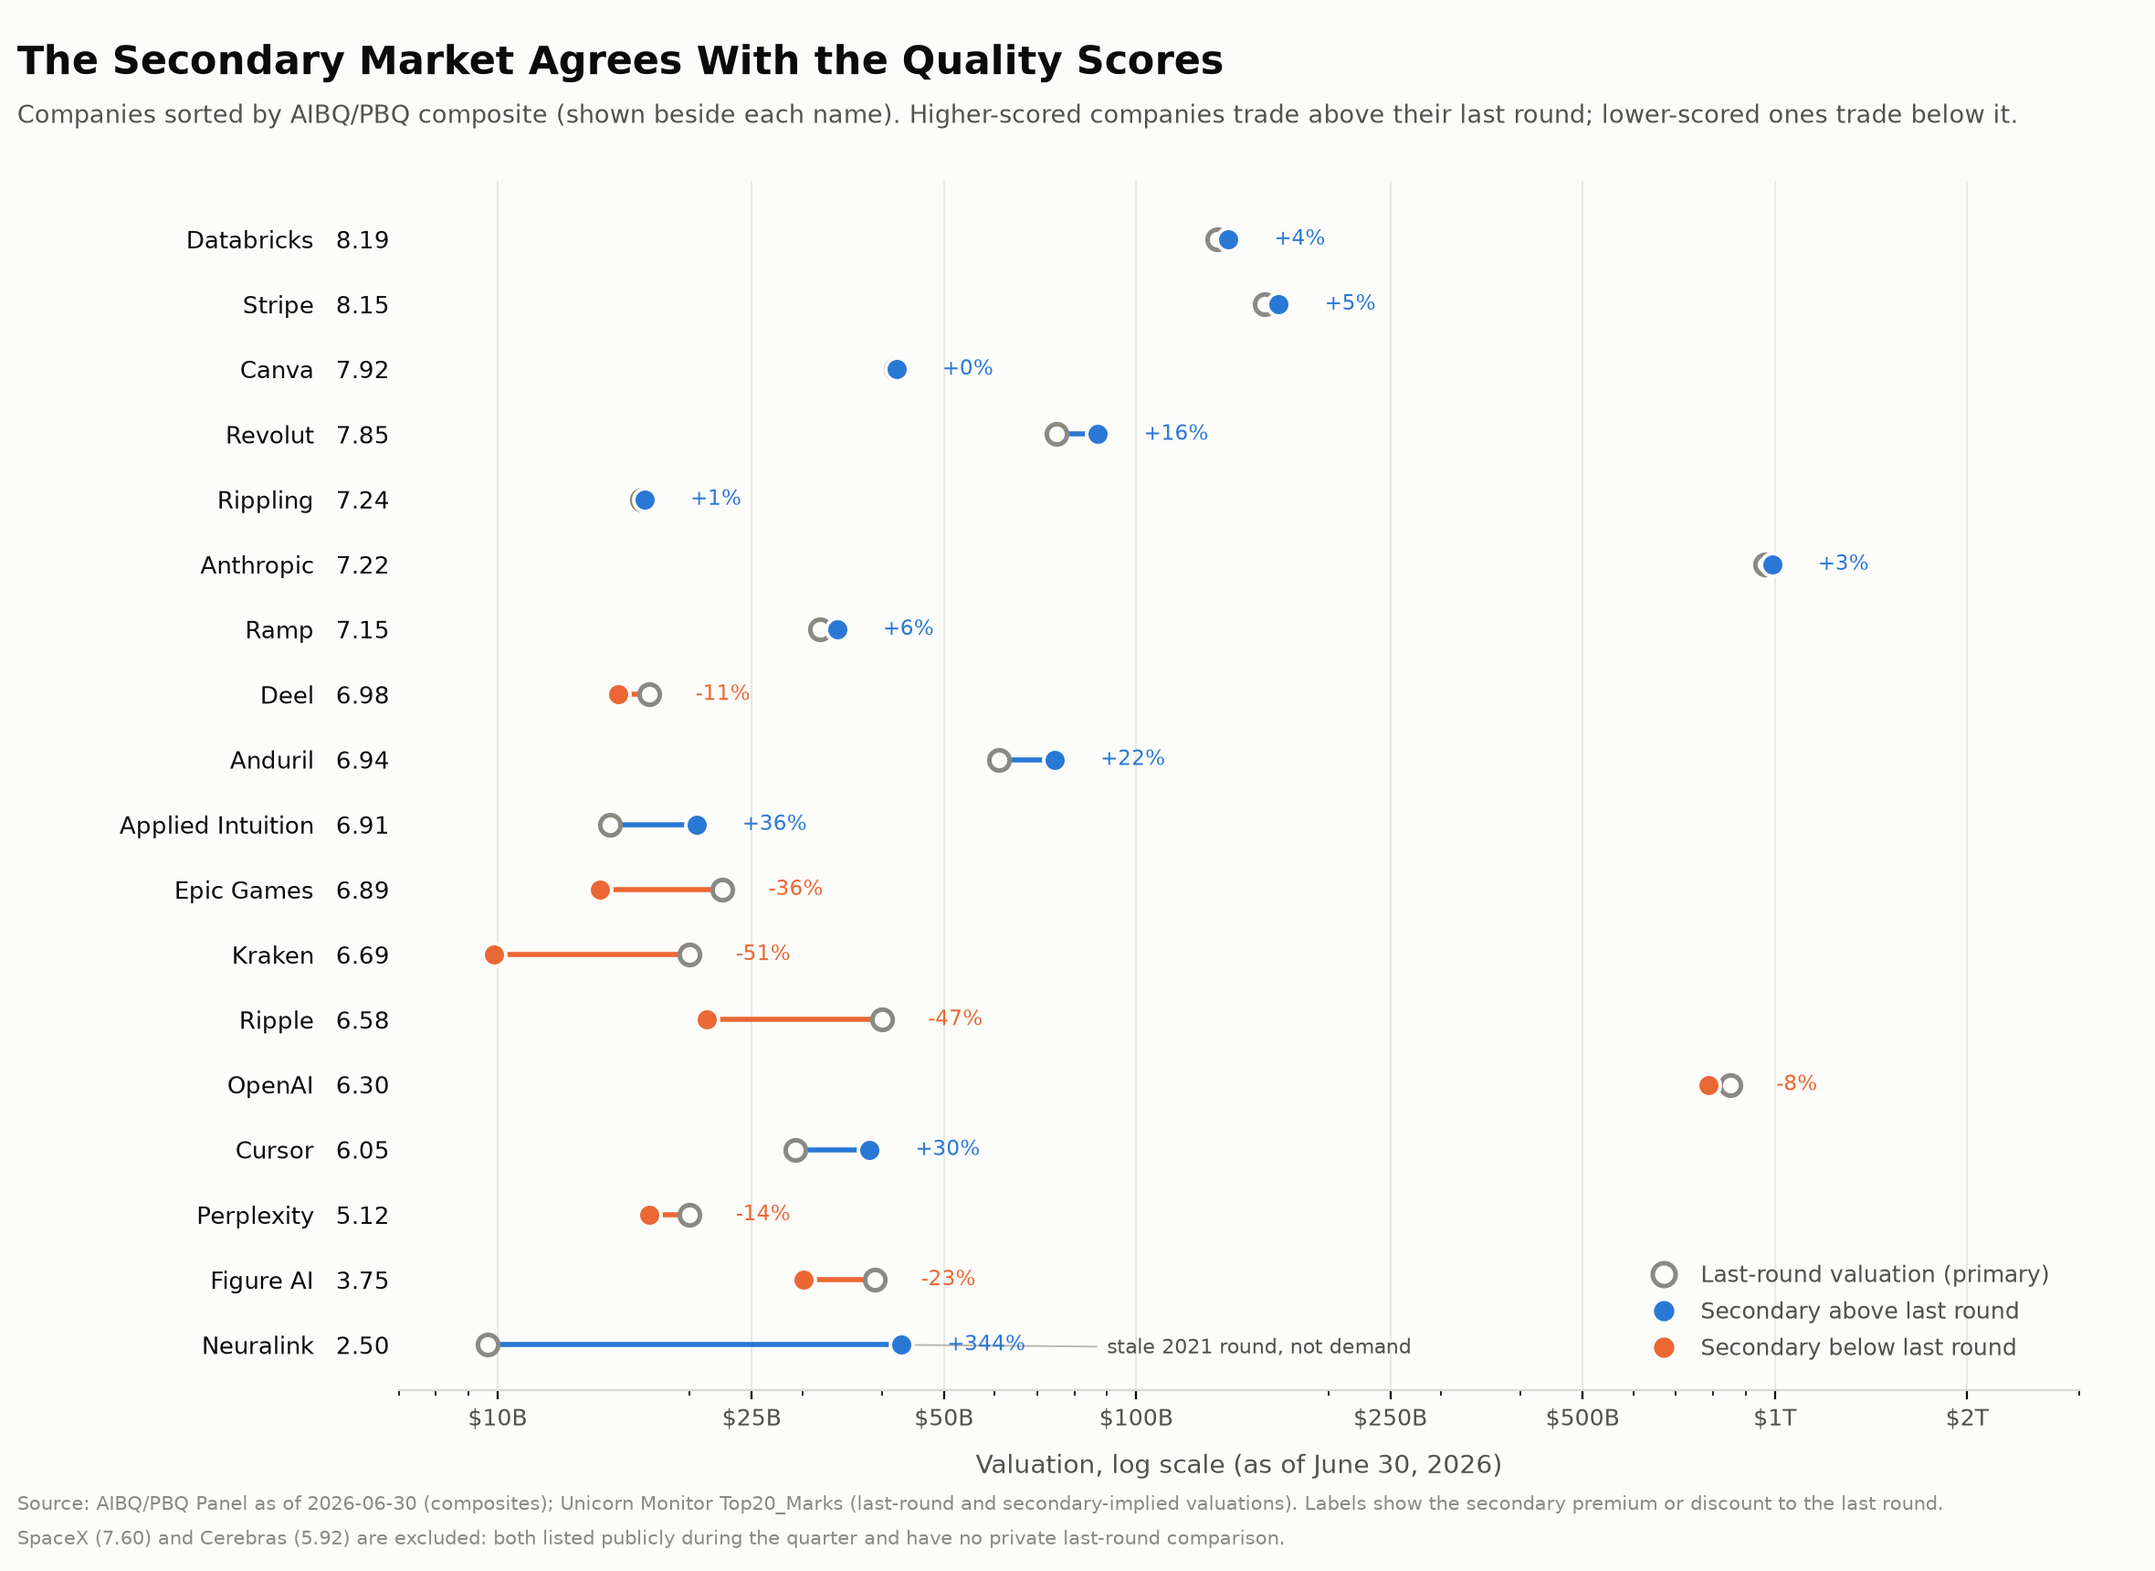
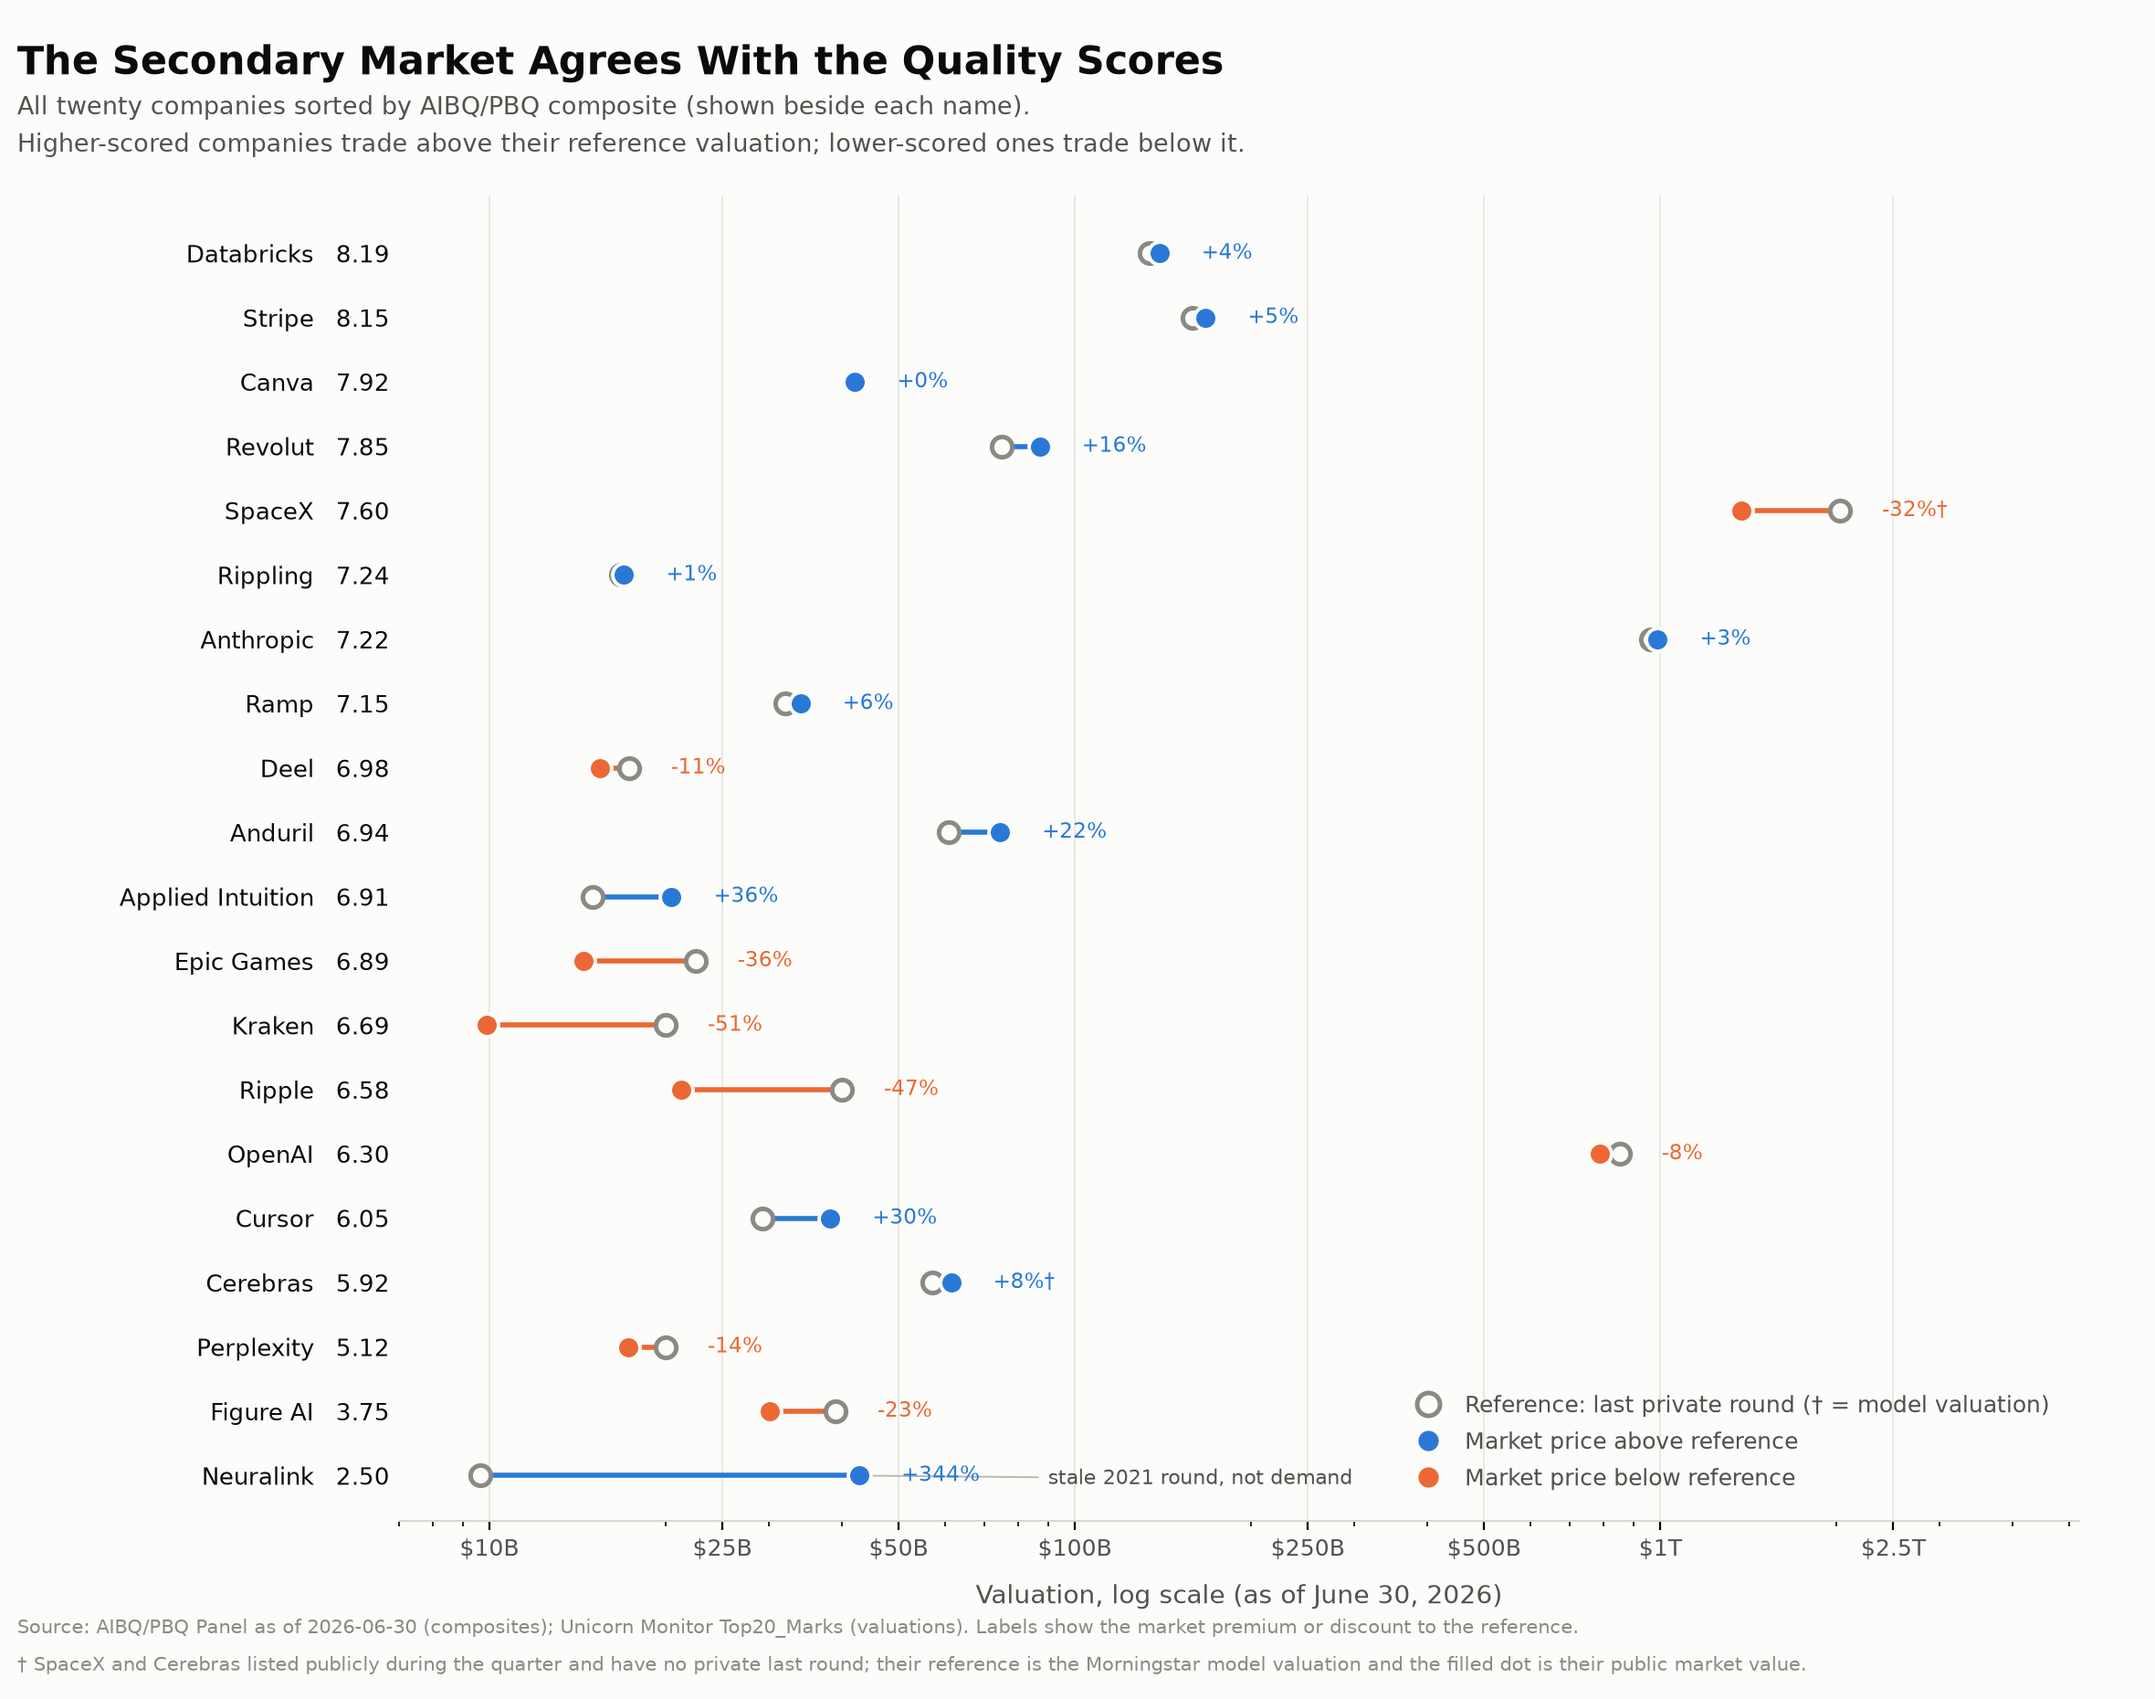
Extend secondary-market dumbbell to all 20 companies
Add SpaceX and Cerebras with the model valuation as their reference (dagger-
flagged, footnoted): both listed during the quarter and have no private last
round. SpaceX shows -32% vs model, Cerebras +8%. Subtitle wrapped to two lines
to fix right-edge clipping.

Claude-Session: https://claude.ai/code/session_01KcQ6jidyMrCam9PxNDFS9i

diff --git a/templates/q2_2026_quality_vs_secondary_chart.py b/templates/q2_2026_quality_vs_secondary_chart.py
@@ -4,39 +4,40 @@ matplotlib.rcParams["text.parse_math"]=False
 import matplotlib.pyplot as plt
 from matplotlib.lines import Line2D
 
-# company, composite, round $B (primary), secondary $B  (MON Top20_Marks; scores = AIBQ/PBQ panel)
-D=[("Databricks",8.19,134,139.4),("Stripe",8.15,159,167.2),("Canva",7.92,42,42.11),
-("Revolut",7.85,75,87.06),("Rippling",7.24,16.8,16.98),("Anthropic",7.22,965,989.6),
-("Ramp",7.15,32,33.99),("Deel",6.98,17.3,15.47),("Anduril",6.94,61,74.5),
-("Applied Intuition",6.91,15,20.47),("Epic Games",6.89,22.5,14.47),("Kraken",6.69,20,9.88),
-("Ripple",6.58,40,21.23),("OpenAI",6.30,852,787.2),("Cursor",6.05,29.3,38.21),
-("Perplexity",5.12,20,17.25),("Figure AI",3.75,39,30.14),("Neuralink",2.50,9.65,42.84)]
+# company, composite, reference $B (last round; model† for public listings), market $B (secondary/public), flag
+D=[("Databricks",8.19,134,139.4,""),("Stripe",8.15,159,167.2,""),("Canva",7.92,42,42.11,""),
+("Revolut",7.85,75,87.06,""),("SpaceX",7.60,2026.24,1376.55,"m"),("Rippling",7.24,16.8,16.98,""),
+("Anthropic",7.22,965,989.6,""),("Ramp",7.15,32,33.99,""),("Deel",6.98,17.3,15.47,""),
+("Anduril",6.94,61,74.5,""),("Applied Intuition",6.91,15,20.47,""),("Epic Games",6.89,22.5,14.47,""),
+("Kraken",6.69,20,9.88,""),("Ripple",6.58,40,21.23,""),("OpenAI",6.30,852,787.2,""),
+("Cursor",6.05,29.3,38.21,""),("Cerebras",5.92,57.1,61.45,"m"),("Perplexity",5.12,20,17.25,""),
+("Figure AI",3.75,39,30.14,""),("Neuralink",2.50,9.65,42.84,"")]
 
 ABOVE="#2a78d6"; BELOW="#eb6834"; PRIM="#8a8983"
 INK="#0b0b0b"; SEC="#52514e"; MUT="#8a8983"; SURF="#fcfcfb"; GRID="#e8e8e4"
 
-fig,ax=plt.subplots(figsize=(11.8,8.6),dpi=200)
+fig,ax=plt.subplots(figsize=(11.8,9.3),dpi=200)
 fig.patch.set_facecolor(SURF); ax.set_facecolor(SURF)
 
 n=len(D)
 ys=list(range(n,0,-1))
-for (name,sc,rd,sec),y in zip(D,ys):
-    c=ABOVE if sec>=rd else BELOW
-    ax.plot([rd,sec],[y,y],color=c,lw=2,zorder=3,solid_capstyle="round")
-    ax.scatter([rd],[y],s=64,facecolor=SURF,edgecolor=PRIM,linewidth=1.8,zorder=4)
-    ax.scatter([sec],[y],s=80,color=c,edgecolor=SURF,linewidth=1.4,zorder=5)
-    gap=sec/rd-1
-    xr=max(rd,sec)
-    ax.text(xr*1.18,y,f"{gap:+.0%}",va="center",ha="left",fontsize=8.3,
+for (name,sc,ref,mkt,fl),y in zip(D,ys):
+    c=ABOVE if mkt>=ref else BELOW
+    ax.plot([ref,mkt],[y,y],color=c,lw=2,zorder=3,solid_capstyle="round")
+    ax.scatter([ref],[y],s=64,facecolor=SURF,edgecolor=PRIM,linewidth=1.8,zorder=4)
+    ax.scatter([mkt],[y],s=80,color=c,edgecolor=SURF,linewidth=1.4,zorder=5)
+    gap=mkt/ref-1
+    dag="†" if fl=="m" else ""
+    ax.text(max(ref,mkt)*1.18,y,f"{gap:+.0%}{dag}",va="center",ha="left",fontsize=8.3,
             color=(ABOVE if gap>=0 else BELOW),zorder=5)
 
 ax.set_yticks(ys)
-ax.set_yticklabels([f"{name}   {sc:.2f}" for name,sc,_,_ in D],fontsize=9.2,color=INK)
+ax.set_yticklabels([f"{name}   {sc:.2f}" for name,sc,_,_,_ in D],fontsize=9.2,color=INK)
 ax.tick_params(axis="y",length=0)
 
 ax.set_xscale("log")
-ax.set_xlim(7,3000)
-ticks=[10,25,50,100,250,500,1000,2000]
+ax.set_xlim(7,5200)
+ticks=[10,25,50,100,250,500,1000,2500]
 ax.set_xticks(ticks)
 ax.set_xticklabels([f"${t}B" if t<1000 else f"${t/1000:g}T" for t in ticks],fontsize=9,color=SEC)
 ax.grid(axis="x",color=GRID,lw=0.7,zorder=0); ax.set_axisbelow(True)
@@ -45,33 +46,32 @@ for s in ("top","right","left"): ax.spines[s].set_visible(False)
 ax.spines["bottom"].set_color("#d9d9d3")
 ax.set_ylim(0.3,n+0.9)
 
-# annotate the two exceptions
-ineur=[i for i,(nm,_,_,_) in enumerate(D) if nm=="Neuralink"][0]
+ineur=[i for i,(nm,_,_,_,_) in enumerate(D) if nm=="Neuralink"][0]
 ax.annotate("stale 2021 round, not demand",xy=(42.84,ys[ineur]),xytext=(90,ys[ineur]-0.05),
             fontsize=8,color=SEC,va="center",
             arrowprops=dict(arrowstyle="-",color="#b9b9b2",lw=0.7,shrinkB=4))
 
-fig.text(0.008,0.972,"The Secondary Market Agrees With the Quality Scores",
+fig.text(0.008,0.974,"The Secondary Market Agrees With the Quality Scores",
          fontsize=15.5,fontweight="bold",color=INK,va="top")
-fig.text(0.008,0.934,"Companies sorted by AIBQ/PBQ composite (shown beside each name). Higher-scored companies trade above "
-         "their last round; lower-scored ones trade below it.",fontsize=9.8,color=SEC,va="top")
+fig.text(0.008,0.944,"All twenty companies sorted by AIBQ/PBQ composite (shown beside each name).",fontsize=9.8,color=SEC,va="top")
+fig.text(0.008,0.922,"Higher-scored companies trade above their reference valuation; lower-scored ones trade below it.",fontsize=9.8,color=SEC,va="top")
 
 leg=[Line2D([0],[0],marker="o",color="none",markerfacecolor=SURF,markeredgecolor=PRIM,
-            markeredgewidth=1.8,markersize=9,label="Last-round valuation (primary)"),
+            markeredgewidth=1.8,markersize=9,label="Reference: last private round († = model valuation)"),
      Line2D([0],[0],marker="o",color="none",markerfacecolor=ABOVE,markeredgecolor=SURF,
-            markersize=9,label="Secondary above last round"),
+            markersize=9,label="Market price above reference"),
      Line2D([0],[0],marker="o",color="none",markerfacecolor=BELOW,markeredgecolor=SURF,
-            markersize=9,label="Secondary below last round")]
+            markersize=9,label="Market price below reference")]
 ax.legend(handles=leg,loc="lower right",frameon=False,fontsize=9,labelcolor=SEC,
           handletextpad=0.6,borderpad=0.8,labelspacing=0.6)
 
-fig.text(0.008,0.036,"Source: AIBQ/PBQ Panel as of 2026-06-30 (composites); Unicorn Monitor Top20_Marks (last-round and "
-         "secondary-implied valuations). Labels show the secondary premium or discount to the last round.",
+fig.text(0.008,0.036,"Source: AIBQ/PBQ Panel as of 2026-06-30 (composites); Unicorn Monitor Top20_Marks (valuations). "
+         "Labels show the market premium or discount to the reference.",fontsize=7.6,color=MUT,va="bottom")
+fig.text(0.008,0.014,"† SpaceX and Cerebras listed publicly during the quarter and have no private last round; their "
+         "reference is the Morningstar model valuation and the filled dot is their public market value.",
          fontsize=7.6,color=MUT,va="bottom")
-fig.text(0.008,0.014,"SpaceX (7.60) and Cerebras (5.92) are excluded: both listed publicly during the quarter and have no "
-         "private last-round comparison.",fontsize=7.6,color=MUT,va="bottom")
 
-fig.subplots_adjust(left=0.185,right=0.965,top=0.885,bottom=0.115)
+fig.subplots_adjust(left=0.185,right=0.965,top=0.885,bottom=0.105)
 out="/home/user/pitchbook-analyst-agent/templates/q2_2026_quality_vs_secondary.png"
 fig.savefig(out,facecolor=SURF)
 print("wrote",out)
